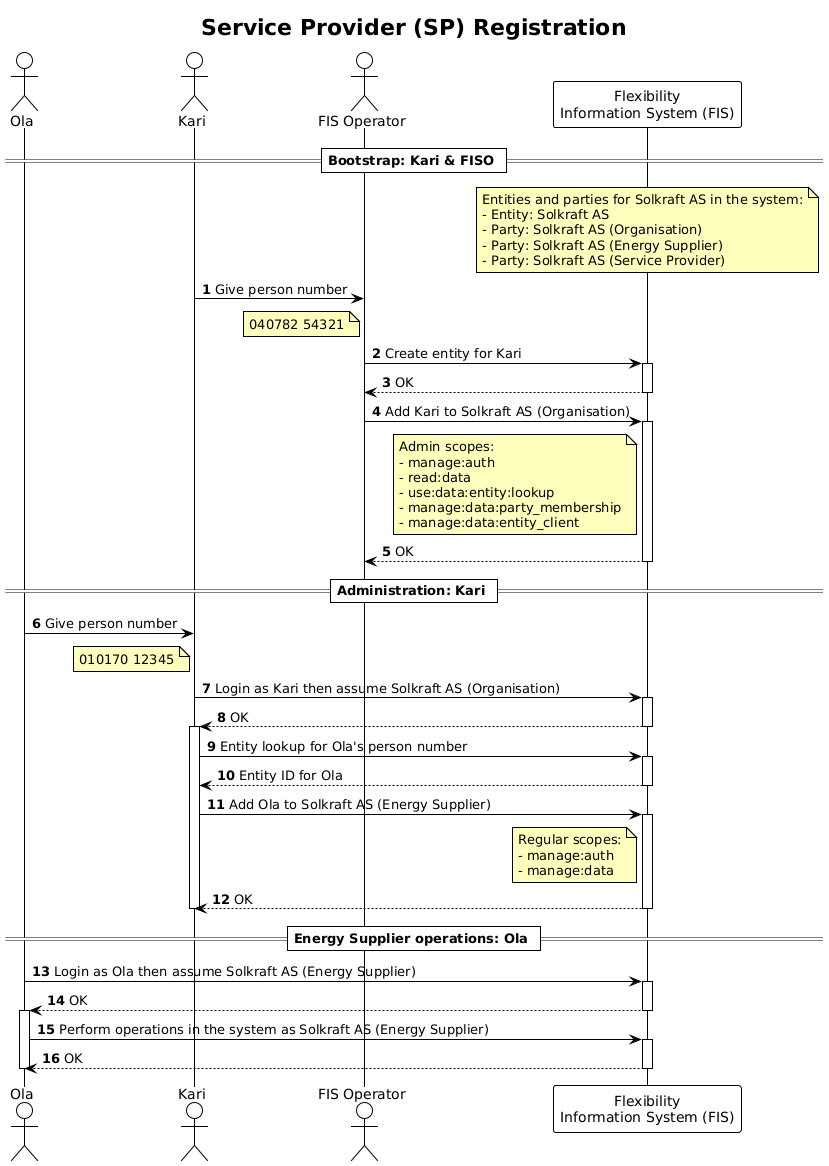
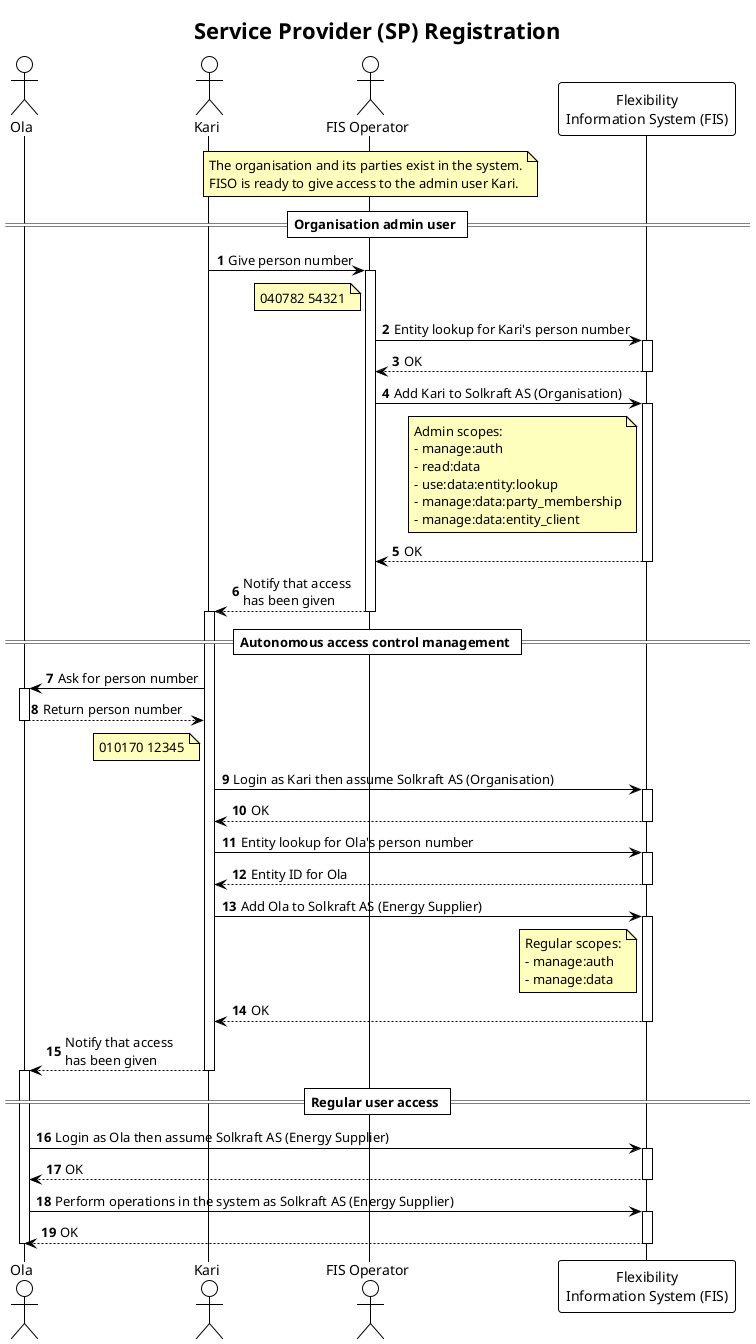
fix: clean text and diagram (FLEX-637)

diff --git a/docs/technical/auth.md b/docs/technical/auth.md
@@ -782,43 +782,35 @@ each other in time.
 ## User creation and access control management
 
 To illustrate the auth model (_i.e._, how entities, parties, scopes, _etc._,
-interact with each other), we explain in this section how a new organisation
-is introduced into the system, then autonomously managed by its employees.
+interact with each other), we explain in this section how a organisation is
+modelelled in the system and how access is autonomously managed by its
+employees.
 
-### Bootstrap
+The following diagram shows the end result of how an example organisation and
+its employees are represented in the system.
 
-For a new organisation to function properly in the system, they need at least:
+![Organisation access control management illustration](../diagrams/organisation_management.drawio.png)
 
-* an organisation entity representing the organisation;
-* an organisation party for administrating the organisation in the system;
-* one or several parties with the right market roles so that the organisation
-  can perform the business operations that they need in the FIS;
-* one person entity, so that at least one of the employees can log in to the FIS
-  and assume the market-related parties from above.
+The four black boxes shows how the oranisation itself is modelled in the system.
 
-The organisation party will be owned by the organisation entity, and the
-person entity will initially be a member of all parties defined for the
-organisation.
+* An organisation _entity_ representing the organisation
+* An organisation _party_ for administrating the organisation in the system
+* Two parties with the right market roles so that the organisation can perform
+  the business operations that they need in the FIS
 
-Let us take a new organisation called _Solkraft AS_ that wants to be both an
-_Energy Supplier_ and a _Service Provider_ in the flexibility markets.
-Here is a diagram showing which resources are created in the FIS to represent
-this company:
+All parties are registered as owned by the organization.
 
-![Entity and parties for a new organisation](../diagrams/organisation_registration.drawio.png)
-
-One of the employees of _Solkraft AS_ will contact the FIS operator to get a
-person entity created from their person number and added to the parties on the
-diagram above, so that they can log in as their personal entity, then assume one
-of the parties and act on behalf of the organisation in the FIS.
+The blue and green boxes are persons. Kari is an organisation admin and can
+add/remove users to the parties that the organisation owns. Ola, Diana and Tor
+are regular users with varying access to read and manage data on behalf of the
+two market parties.
 
 ### Autonomous access control management
 
-Once an organisation has one of its employees registered in the system, it is no
-longer required to always contact the FISO to perform administrative operations.
-Indeed, once an employee is granted administrator privileges on the
-organisation, they can add and manage access control for their colleagues
-without involving the FISO.
+One person, in this case Kari, is registered as a admin member of the
+organisation party by the FIS operator. Once Kari is granted
+administrator privileges on the organisation, she can add and manage access
+control for her colleagues without involving the FISO.
 
 What we refer to as _administrator privileges_ here is a certain set of scopes
 on the party membership that makes the employee's person entity a member of the
@@ -838,11 +830,15 @@ operations, _i.e._, the following ones:
   machine access for their colleagues
 
 From the moment an entity is added to the organisation party with administrator
-scopes, the person backing the entity can log in, retrieve entities associated
-to their colleagues based on their person number through entity lookup, and
-add/remove these entities to/from the various parties the organisation has in
-the system, as well as add/remove clients allowing colleagues to act as the
-organisation itself for some machine-automated operations.
+scopes, that person can log in and:
+
+* Retrieve or create entities associated to their colleagues based on their
+  person number through entity lookup.
+* Add/remove these entities to/from the various parties the organisation owns in
+  the system.
+* Add/remove entity clients allowing applications to act as the organisation
+  itself for some machine-automated operations.
+
 The administrator can also tune the scopes for both party memberships and
 entity clients, to allow for precise access control management.
 For instance, they can allow a data analyst in their company to _read_ all the
@@ -852,17 +848,8 @@ restricting by default reduces the risk of making a mistake.
 ### Sequence of actions
 
 Let us show an example of sequence of actions in the system to perform such an
-autonomous access control management.
-Let us assume that an employee of _Solkraft AS_, Kari, contacts the FIS operator
-for the first time asking for an access to the system for her company, then
-adds two of her colleagues, Ola and Tor.
-Ola will perform the operations related to the _Energy Supplier_ role, and Tor
-the _Service Provider_ role.
-She also adds a third colleague, Diana, to all parties with read-only access.
-
-Here are the illustrated operations, as well as the sequence for Ola:
-
-![Organisation access control management illustration](../diagrams/organisation_management.drawio.png)
+autonomous access control management. In this example, FIS operator adds Kari as
+admin and Kari adds Ola as a regular user for the Energy Supplier party.
 
 ![Organisation access control management sequence](../diagrams/org_access_control_management.png)
 
